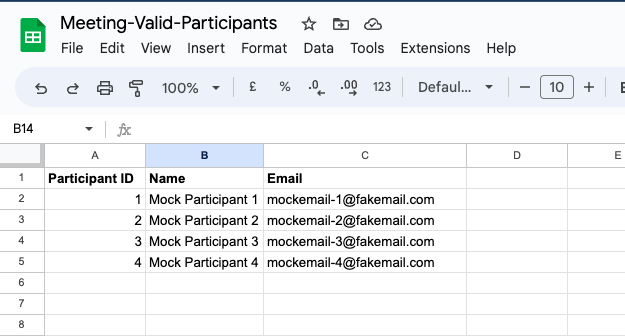
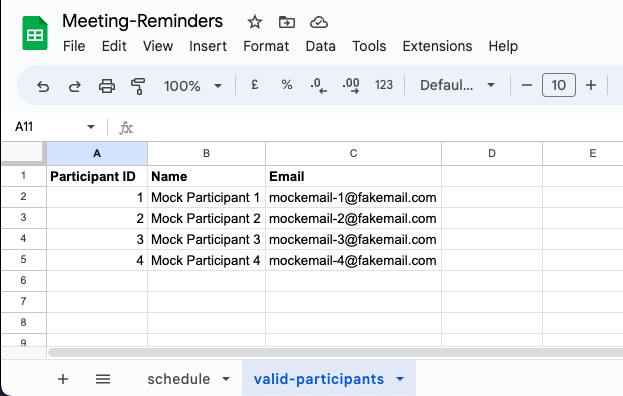
update deployment section of README for worksheets

diff --git a/README.md b/README.md
@@ -276,8 +276,9 @@ Most of the features of this application run fine on a local computer (any inter
 
 - Create a personal google account (if needed)
 - Go to Sheets
-- Create New Sheet and rename to `Meeting-Schedule` 
-    -  add the Headings (and some dummy initial data if you want)
+- Create New Sheet and rename to `Meeting-Reminders` 
+    - rename first sheet to 'schedule'
+    - add the Headings (and some dummy initial data if you want) 
     <table>
         <tr>
             <th style='text-align:center'>Schedule Worksheet</th>
@@ -286,8 +287,8 @@ Most of the features of this application run fine on a local computer (any inter
             <td> <img src="./assets/images/sheets-schedule-init.png"; alt="example of the schedule worksheet" >  </td>
         </tr>
     </table>
-- Create another Sheet and rename to `Meeting-Valid-Participants` 
-    -  add the Headings (and some dummy initial data if you want)
+- add another sheet and name it 'valid-participants'
+- add the Headings (and some dummy initial data if you want) 
     <table>
         <tr>
             <th style='text-align:center'>Schedule Worksheet</th>
